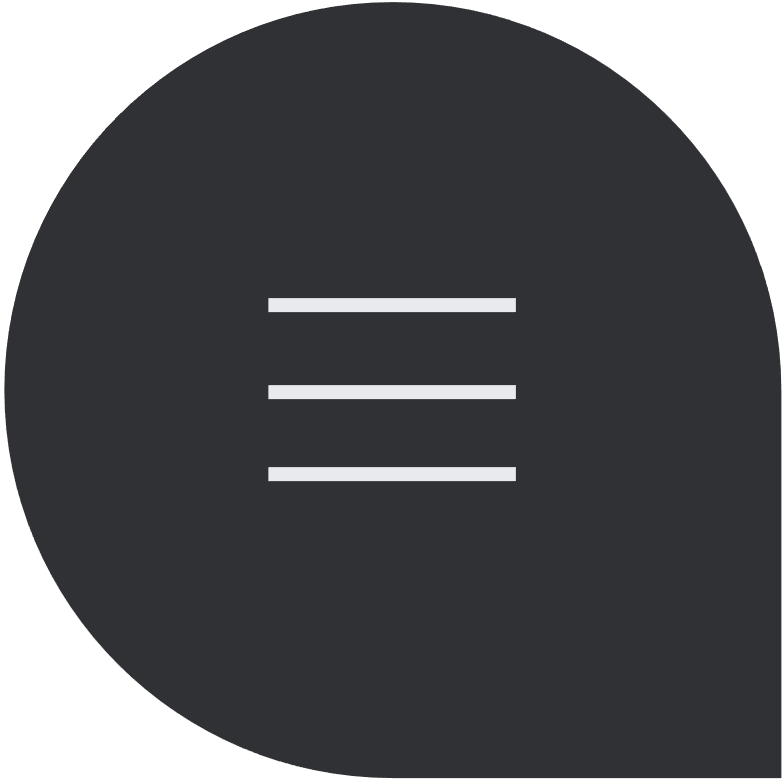
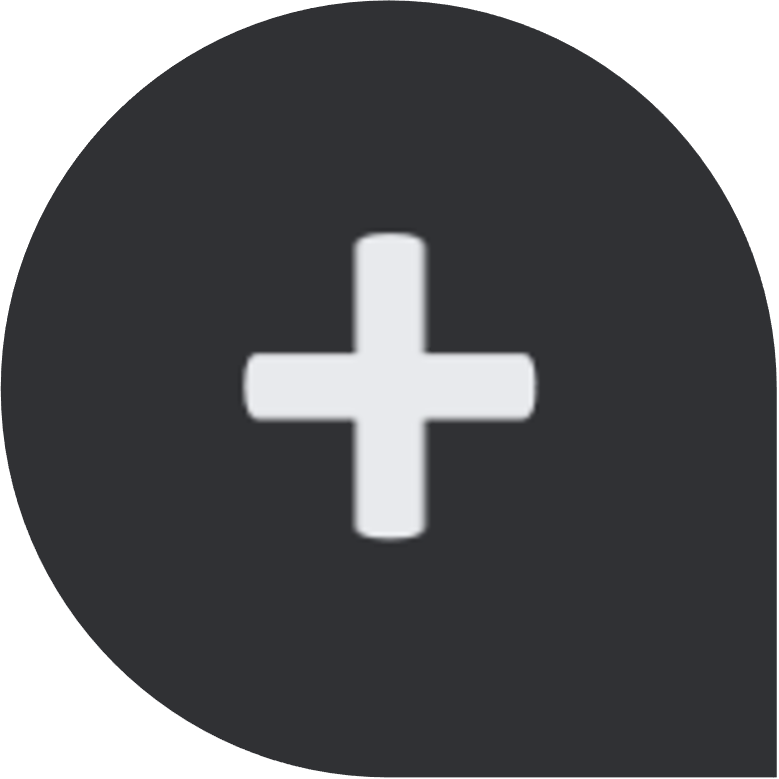
fix mobile formatting

diff --git a/static/css/style.css b/static/css/style.css
@@ -14,6 +14,7 @@ html {
     background-color: #202124;
     color: #e8eaed;
     box-sizing: border-box;
+    min-width: 250px;
 }
 
 #logo {
@@ -28,20 +29,20 @@ html {
     top: 80vh;
     right: 10vw;
     cursor: pointer;
-    content: url('https://i.imgur.com/ZxdNxY7.png');
+    content: url('https://i.imgur.com/U5O34Lk.png');
 }
 
 .newPostBtn:hover {
-    content: url('https://i.imgur.com/Kx3v7UP.png');
+    content: url('https://i.imgur.com/RaG4q4e.png');
 }
 
 .newPostBtnDisabled {
-    content: url('https://i.imgur.com/iMwDi2N.png');
+    content: url('https://i.imgur.com/y7QStEj.png');
     cursor: default;
 }
 
 .newPostBtnDisabled:hover {
-    content: url('https://i.imgur.com/iMwDi2N.png');
+    content: url('https://i.imgur.com/y7QStEj.png');
 }
 
 .roflCount,
@@ -82,6 +83,7 @@ body {
 
 body .wrapper {
     width: 60vw;
+    min-width: 250px;
 }
 
 
@@ -93,11 +95,6 @@ body .wrapper {
     top: 80vh;
     left: 80vw;
 }
-
-#newPostBtn:hover {
-    content: url('https://i.imgur.com/Kx3v7UP.png');
-}
-
 /* ------------------------ Post Stuff ------------------------ */
 .post {
     border-radius: 10px;
@@ -109,12 +106,14 @@ body .wrapper {
     padding: 15px 20px 15px 20px;
     display: grid;
 
-    grid-template-columns: 1fr 1fr;
+    grid-template-columns: 1fr;
     grid-template-rows: auto;
     grid-template-areas:
-        "postTitle reactions"
-        "preview preview"
-        "comments dateTime";
+        "postTitle"
+        "dateTime"
+        "preview"
+        "reactions"
+        "comments";
 
 }
 
@@ -129,7 +128,9 @@ body .wrapper {
 
 .preview {
     grid-area: preview;
-    padding-bottom: 5px;
+    margin: 10px 0 10px 0;
+    width: 100%;
+    word-wrap: break-word;
 }
 
 .comments {
@@ -204,20 +205,6 @@ textarea,
     margin-bottom: 10px;
 }
 
-
-.postWrapper {
-    padding: 15px 20px 15px 20px;
-    display: grid;
-
-    grid-template-columns: 2fr 1fr;
-    grid-template-rows: auto;
-    grid-template-areas:
-        "postTitle reactions"
-        "preview preview"
-        "comments dateTime";
-
-}
-
 .postTitle {
     grid-area: postTitle;
     padding-bottom: 5px;
@@ -225,6 +212,7 @@ textarea,
 
 .dateTime {
     grid-area: dateTime;
+    color: #a9aaab
 }
 
 .preview {
@@ -291,15 +279,59 @@ textarea,
     opacity: 0.9;
 }
 
+
+
 input,
 textarea,
 #formTitle {
     margin-bottom: 10px;
 }
 
+@media (max-width:750px){
+    .postGiphy{
+        width:100%;
+    }
 
+    .newPostBtn {
+        content: url('https://i.imgur.com/RaG4q4e.png');
+    }
+}
 
-@media (min-width:1400px) {
+@media screen and (min-width:750px) {
+    .postWrapper {
+        padding: 15px 20px 15px 20px;
+        display: grid;
+
+        grid-template-columns: 1fr 1fr;
+        grid-template-rows: auto;
+        grid-template-areas:
+            "postTitle reactions"
+            "preview preview"
+            "comments dateTime";
+
+    }
+
+    .dateTime{
+        color: #e8eaed;
+    }
+}
+
+@media screen and (min-width:1100px) {
+    .postWrapper {
+        padding: 15px 20px 15px 20px;
+        display: grid;
+
+        grid-template-columns: 2fr 1fr;
+        grid-template-rows: auto;
+        grid-template-areas:
+            "postTitle reactions"
+            "preview preview"
+            "comments dateTime";
+
+    }
+}
+
+@media screen and  (min-width:1400px) {
     .postWrapper {
         padding: 15px 20px 15px 20px;
         display: grid;

diff --git a/bundle.js b/bundle.js
@@ -216,10 +216,14 @@ function appendPost(postData) {
     hankey.textContent = `${parseInt(hankey.textContent, 10) + 1} 💩`;
   });
 
+
+  postBodyDiv.appendChild(newPostBody);
+
   if(postData.link){
     let newGiphy = document.createElement("img");
 
     newGiphy.src = postData.link;
+    newGiphy.className = 'postGiphy';
     newGiphy.alt = 'Gif for post titled ' + postData.title;
 
     postBodyDiv.appendChild(newGiphy);
@@ -228,8 +232,7 @@ function appendPost(postData) {
   // Append
   //   newPostTitle.appendChild("a");
   if (newPostBody.textContent && newPostTitle.textContent) {
-    newPostWrapper.appendChild(newPostTitle);
-    postBodyDiv.appendChild(newPostBody);
+    newPostWrapper.appendChild(newPostTitle);  
     newPostWrapper.appendChild(postBodyDiv);
     newPostWrapper.appendChild(newPostComments);
     newPostWrapper.appendChild(newPostDateTime);
@@ -286,6 +289,7 @@ function appendPost(postData) {
         commentDiv.insertAdjacentElement("afterBegin", thisDate)
         commentForm.insertAdjacentElement("afterEnd", commentDiv);
       }
+      commentInput.value = "";
     })
   }
 }

diff --git a/static/js/app.js b/static/js/app.js
@@ -215,10 +215,14 @@ function appendPost(postData) {
     hankey.textContent = `${parseInt(hankey.textContent, 10) + 1} 💩`;
   });
 
+
+  postBodyDiv.appendChild(newPostBody);
+
   if(postData.link){
     let newGiphy = document.createElement("img");
 
     newGiphy.src = postData.link;
+    newGiphy.className = 'postGiphy';
     newGiphy.alt = 'Gif for post titled ' + postData.title;
 
     postBodyDiv.appendChild(newGiphy);
@@ -227,8 +231,7 @@ function appendPost(postData) {
   // Append
   //   newPostTitle.appendChild("a");
   if (newPostBody.textContent && newPostTitle.textContent) {
-    newPostWrapper.appendChild(newPostTitle);
-    postBodyDiv.appendChild(newPostBody);
+    newPostWrapper.appendChild(newPostTitle);  
     newPostWrapper.appendChild(postBodyDiv);
     newPostWrapper.appendChild(newPostComments);
     newPostWrapper.appendChild(newPostDateTime);
@@ -285,6 +288,7 @@ function appendPost(postData) {
         commentDiv.insertAdjacentElement("afterBegin", thisDate)
         commentForm.insertAdjacentElement("afterEnd", commentDiv);
       }
+      commentInput.value = "";
     })
   }
 }

diff --git a/index.html b/index.html
@@ -4,7 +4,7 @@
 <head>
     <meta charset="UTF-8">
     <!-- <link rel="stylesheet" type="text/css" href="./static/css/styleMobile.css"> -->
-    <link rel="stylesheet" type="text/css" href="./static/css/styleDesktop.css">
+    <link rel="stylesheet" type="text/css" href="./static/css/style.css">
     <meta http-equiv="X-UA-Compatible" content="IE=edge">
     <meta name="viewport" content="width=device-width, initial-scale=1.0">
     <link rel="shortcut icon" href="./static/img/favicon.ico" type="image/x-icon">
